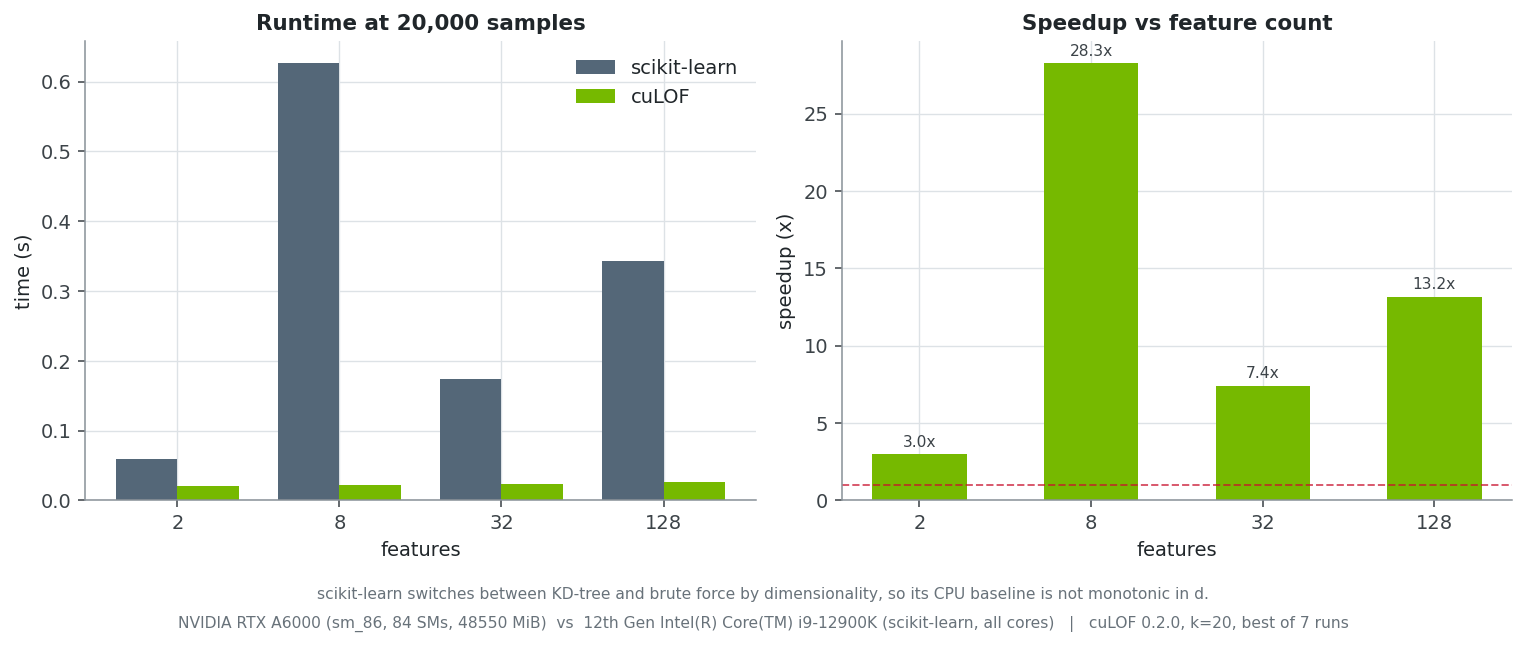
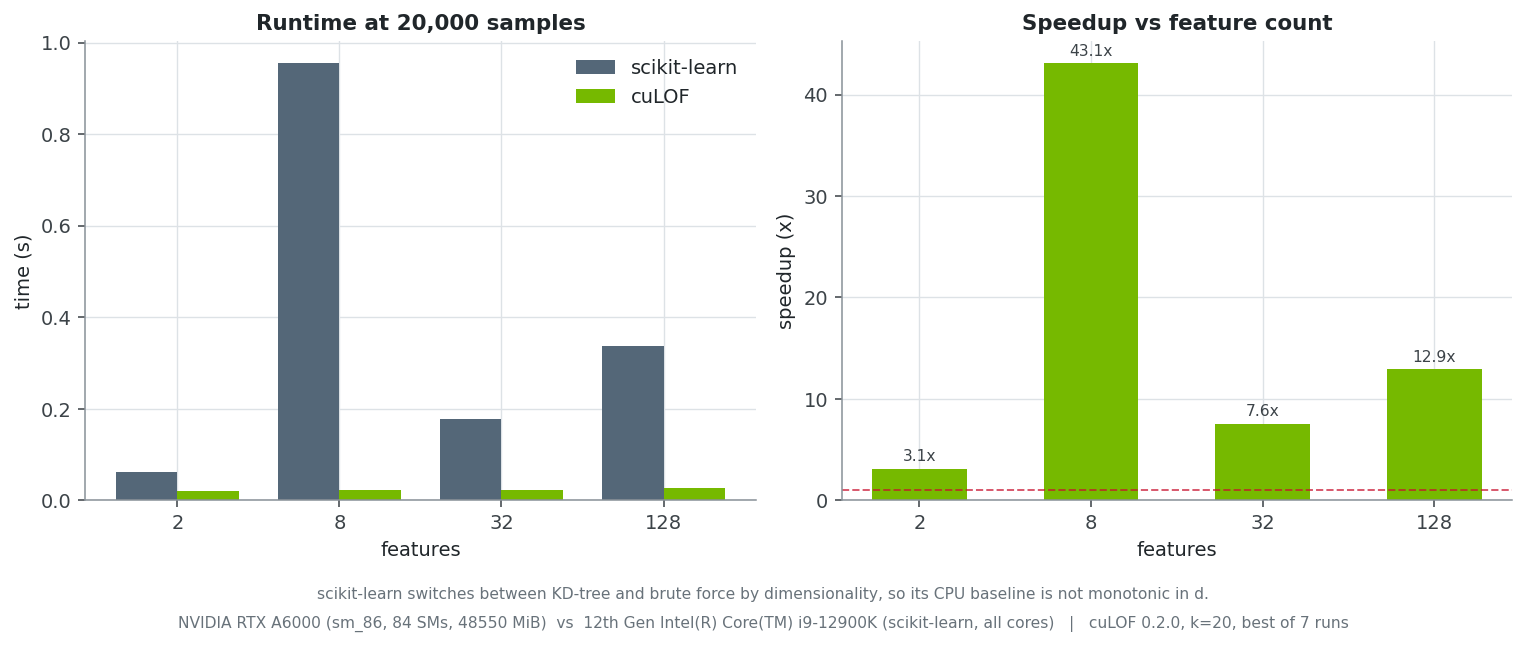
Regenerate the charts from the run the tables quote (#5)

diff --git a/docs/implementation.md b/docs/implementation.md
@@ -156,8 +156,17 @@ of headroom.
 
 The prediction that follows is the useful one: it should be a **low-dimensional**
 effect only. KD-trees lose their advantage as dimensionality rises — the curse of
-dimensionality — and scikit-learn switches to a BLAS brute-force path. Then both
-sides are $O(n^2 d)$ and the ratio should stop decaying. It does:
+dimensionality — and scikit-learn switches to a BLAS brute-force path.
+
+![Runtime and speedup against feature count](https://raw.githubusercontent.com/Aminsed/cuLOF/main/img/benchmark_dimensions.png)
+
+The CPU baseline is visibly *not* monotonic in `d` — it peaks at `d = 8`, where
+the tree is already struggling but has not yet been abandoned — while cuLOF's
+runtime barely moves, because a GEMM does not care about the shape of the data
+the way a tree does. That switch is the whole reason the speedup varies so much
+with dimension.
+
+Then both sides are $O(n^2 d)$ and the ratio should stop decaying. It does:
 
 | n | speedup at d = 8 | speedup at d = 128 |
 |---:|---:|---:|
